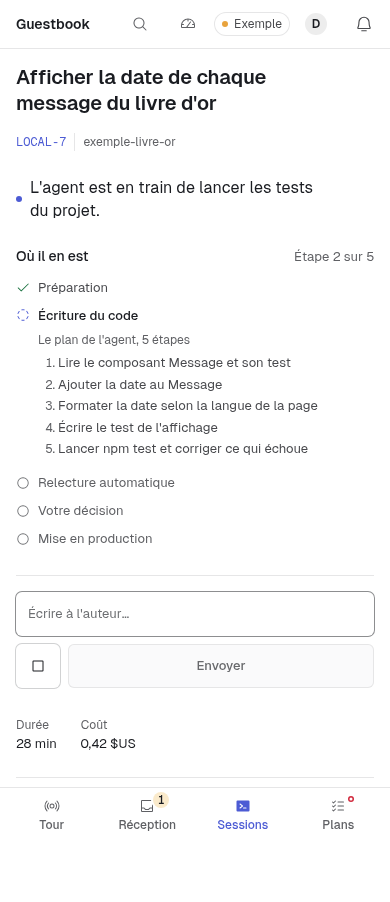
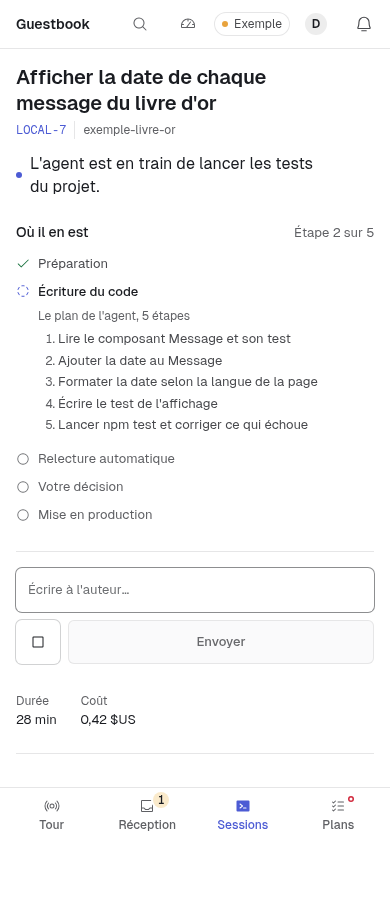
fix(v2): the guard's word for a catalog key, and the ticket's number on a phone in every state (#499)

diff --git a/v2/app/web/screens/session/session.css b/v2/app/web/screens/session/session.css
@@ -548,3 +548,6 @@ details.row .what > .sub { margin: 0 0 0 auto; }
 /* What the screen will show, said warmly while no capture is taken: an icon and what comes, when. */
 .screen-waiting { display: flex; align-items: flex-start; gap: var(--space-2); padding: 12px; border-radius: var(--radius-panel); background: var(--surface-muted); box-shadow: inset 0 0 0 1px var(--line); color: var(--text-secondary); font-size: var(--text-md); line-height: 1.45; }
 .screen-waiting svg { flex: none; margin-top: 1px; color: var(--text-muted); }
+
+/* The ticket's number on a phone: a 44 px target that takes one line of text in the head, whatever the page's height. */
+@media (max-width: 767px) { .s-ticket .link-button { min-height: 44px; margin-block: -12px; } }

diff --git a/v2/app/web/screens/session/glance.ts b/v2/app/web/screens/session/glance.ts
@@ -191,7 +191,7 @@ export function sessionFacts(view: SessionView, t: Translate): { readonly durati
   }
   const usage = parts.reduce((sum, part) => sum + (part.thread?.state?.usage.inputTokens ?? 0) + (part.thread?.state?.usage.outputTokens ?? 0), 0);
   const tokens = cost?.tokens ?? usage;
-  return tokens > 0 ? { duration, cost: t('glance_tokens', { count: count(tokens, view.language) }) } : { duration };
+  return tokens > 0 ? { duration, cost: t('glance_used', { count: count(tokens, view.language) }) } : { duration };
 }
 
 // The ticket's pull request, as the service builds it (setup/steps/first-ticket.ts
